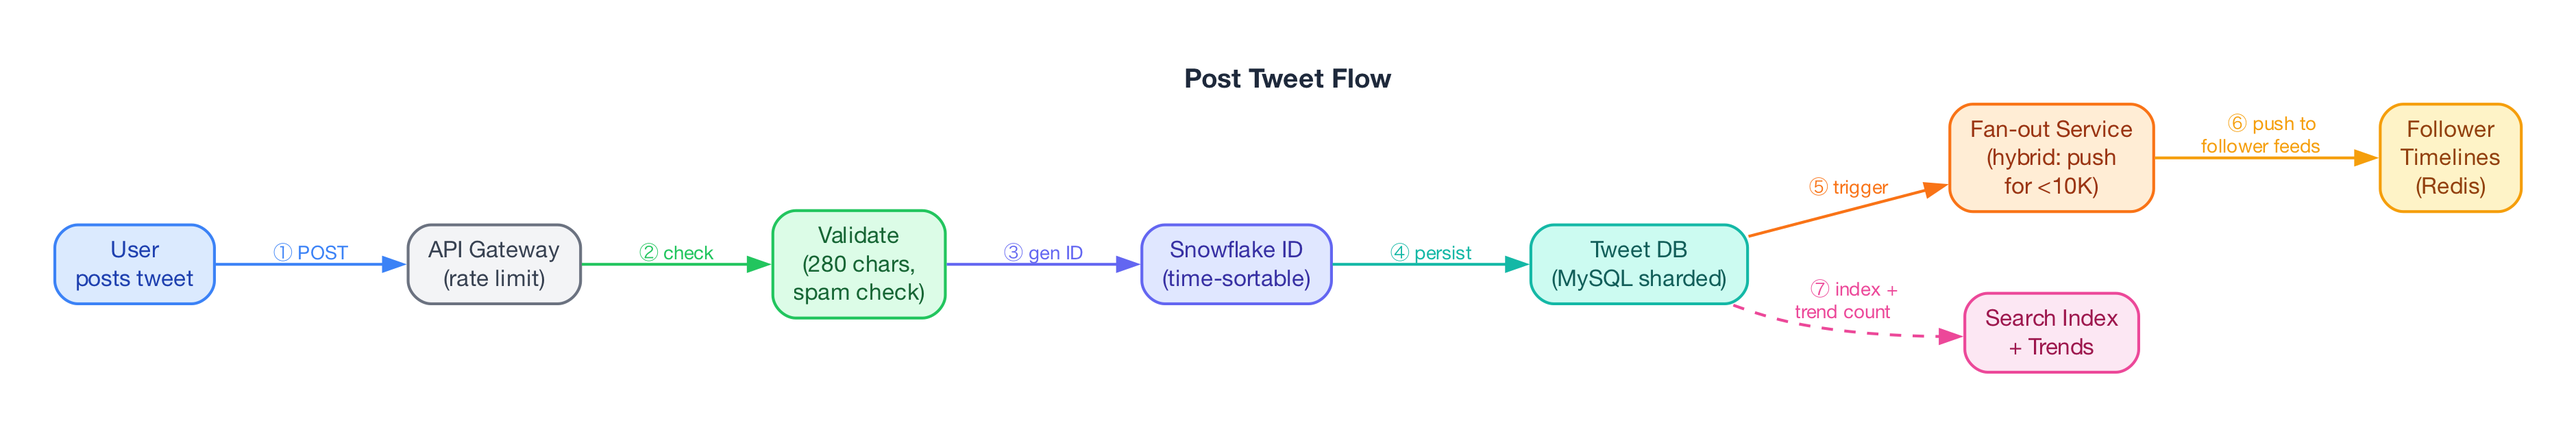
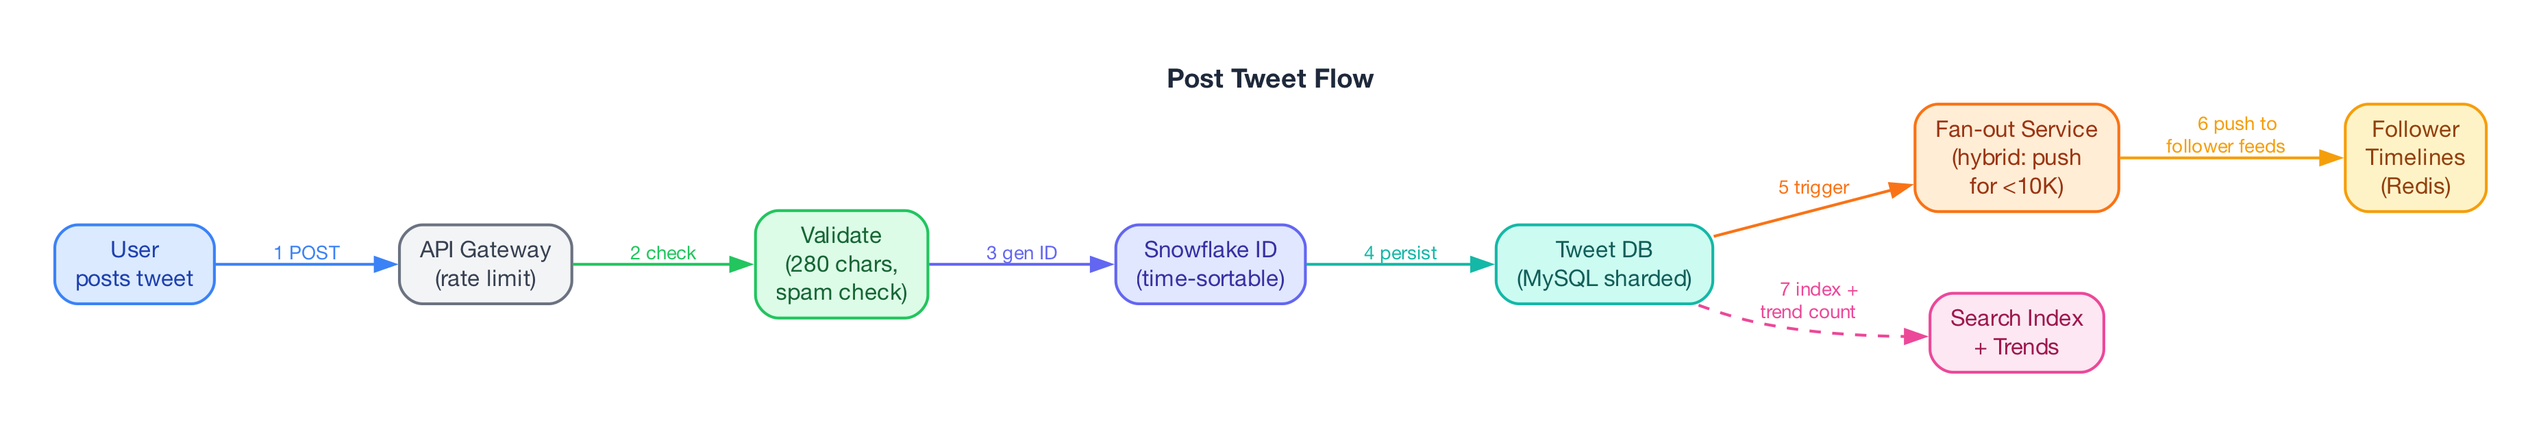
Add flow diagrams for Tinder/Twitter/Instagram + fix layout issues
Diagrams:
- Tinder: Swipe & Match Detection Flow + Recommendation Pipeline
- Twitter: Post Tweet Flow + Read Timeline Flow (regenerated)
- Instagram: Create Post Flow + Load Feed Flow

Layout fixes:
- Comparison tables: full width when only 1 table (was wasting half)
- Visual cards: adapt grid cols to item count (1/2/3)
- Layered Design: moved immediately after Architecture Diagram
  (was buried after Deep Dives — user requested this ordering)

diff --git a/apps/frontend/src/components/capra/docs/TopicDetail.jsx b/apps/frontend/src/components/capra/docs/TopicDetail.jsx
@@ -2062,6 +2062,70 @@ export default function TopicDetail({
                 </div>
               )}
 
+              {/* 5b. Architecture Layers + Layered Design — immediately after architecture diagram */}
+              {topicDetails.architectureLayers && (
+                <div id="arch-layers" className="rounded-lg overflow-hidden scroll-mt-24 border border-[var(--border)] bg-white">
+                  <div className="px-3 py-2 border-b border-[var(--accent)] flex items-center gap-2 bg-[var(--accent)]">
+                    <Icon name="layers" size={16} className="text-white" />
+                    <h3 className="text-[15px] font-bold text-white landing-display">Architecture Layers</h3>
+                  </div>
+                  <div className="p-3 space-y-1.5">
+                    {topicDetails.architectureLayers.map((layer, i) => (
+                      <div key={i} className="flex items-start gap-3 p-2.5 rounded-lg border border-[var(--border)]">
+                        <span className="w-6 h-6 rounded-md bg-[rgba(45,140,255,0.08)] text-[var(--accent)] flex items-center justify-center text-xs font-bold flex-shrink-0">{i + 1}</span>
+                        <div>
+                          <span className="text-sm font-bold text-[var(--text-primary)] landing-display">{layer.name}</span>
+                          <div className="text-[var(--text-secondary)] text-xs landing-body leading-relaxed mt-0.5">
+                            <FormattedContent content={layer.description} color="blue" />
+                          </div>
+                        </div>
+                      </div>
+                    ))}
+                  </div>
+                </div>
+              )}
+
+              {topicDetails.layeredDesign && (
+                <div className="rounded-2xl overflow-hidden bg-white border border-[var(--border)]">
+                  <div className="px-4 py-2 border-b border-[var(--accent)] flex items-center gap-2 bg-[var(--accent)]">
+                    <Icon name="layers" size={14} className="text-white" />
+                    <h3 className="text-[15px] font-bold text-white landing-display">Layered Design</h3>
+                    <span className="ml-auto text-[10px] font-semibold px-2 py-0.5 rounded-full bg-white/20 text-white landing-mono">{topicDetails.layeredDesign.length} layers</span>
+                  </div>
+                  <div className="p-2.5 space-y-0">
+                    {topicDetails.layeredDesign.map((layer, i) => {
+                      const LAYER_COLORS = ['#10b981', '#3b82f6', '#60A5FA', '#f59e0b', '#ef4444', '#06b6d4', '#ec4899', '#2D8CFF'];
+                      const lc = LAYER_COLORS[i % LAYER_COLORS.length];
+                      return (
+                        <div key={i} className="relative">
+                          {i > 0 && (
+                            <div className="flex justify-center -my-1 z-10 relative">
+                              <svg width="16" height="10" viewBox="0 0 16 10" fill="none"><path d="M8 0v10M4 6l4 4 4-4" stroke="#d1d5db" strokeWidth="1.5" strokeLinecap="round" strokeLinejoin="round" /></svg>
+                            </div>
+                          )}
+                          <div className="rounded-xl border border-[var(--border)] bg-white transition-all overflow-hidden">
+                            <div className="px-4 py-3">
+                              <div className="flex items-center gap-2.5 mb-1.5">
+                                <span className="w-7 h-7 rounded-lg flex items-center justify-center flex-shrink-0 text-white text-xs font-bold" style={{ background: lc }}>L{i + 1}</span>
+                                <h4 className="text-[var(--text-primary)] font-semibold text-sm landing-display">{layer.name}</h4>
+                              </div>
+                              <p className="text-[var(--text-secondary)] text-xs leading-relaxed ml-9 landing-body">{layer.purpose}</p>
+                              {layer.components && (
+                                <div className="ml-9 mt-2 flex flex-wrap gap-1.5">
+                                  {layer.components.map((comp, j) => (
+                                    <span key={j} className="text-[11px] font-medium px-2 py-0.5 rounded-md landing-mono" style={{ background: `${lc}12`, color: lc, border: `1px solid ${lc}30` }}>{comp}</span>
+                                  ))}
+                                </div>
+                              )}
+                            </div>
+                          </div>
+                        </div>
+                      );
+                    })}
+                  </div>
+                </div>
+              )}
+
               {/* 6. System Flows + Flowcharts — show right after architecture */}
               {(topicDetails.createFlow || topicDetails.redirectFlow) && (
                 <div id="flows" className="space-y-3 scroll-mt-24">
@@ -2266,73 +2330,9 @@ export default function TopicDetail({
                 </div>
               ) : null}
 
-              {/* Architecture Layers + Layered Design — after deep dives */}
-              {topicDetails.architectureLayers && (
-                <div id="arch-layers" className="rounded-lg overflow-hidden scroll-mt-24 border border-[var(--border)] bg-white">
-                  <div className="px-3 py-2 border-b border-[var(--accent)] flex items-center gap-2 bg-[var(--accent)]">
-                    <Icon name="layers" size={16} className="text-white" />
-                    <h3 className="text-[15px] font-bold text-white landing-display">Architecture Layers</h3>
-                  </div>
-                  <div className="p-3 space-y-1.5">
-                    {topicDetails.architectureLayers.map((layer, i) => (
-                      <div key={i} className="flex items-start gap-3 p-2.5 rounded-lg border border-[var(--border)]">
-                        <span className="w-6 h-6 rounded-md bg-[rgba(45,140,255,0.08)] text-[var(--accent)] flex items-center justify-center text-xs font-bold flex-shrink-0">{i + 1}</span>
-                        <div>
-                          <span className="text-sm font-bold text-[var(--text-primary)] landing-display">{layer.name}</span>
-                          <div className="text-[var(--text-secondary)] text-xs landing-body leading-relaxed mt-0.5">
-                            <FormattedContent content={layer.description} color="blue" />
-                          </div>
-                        </div>
-                      </div>
-                    ))}
-                  </div>
-                </div>
-              )}
-
-              {topicDetails.layeredDesign && (
-                <div className="rounded-2xl overflow-hidden bg-white border border-[var(--border)]">
-                  <div className="px-4 py-2 border-b border-[var(--accent)] flex items-center gap-2 bg-[var(--accent)]">
-                    <Icon name="layers" size={14} className="text-white" />
-                    <h3 className="text-[15px] font-bold text-white landing-display">Layered Design</h3>
-                    <span className="ml-auto text-[10px] font-semibold px-2 py-0.5 rounded-full bg-white/20 text-white landing-mono">{topicDetails.layeredDesign.length} layers</span>
-                  </div>
-                  <div className="p-2.5 space-y-0">
-                    {topicDetails.layeredDesign.map((layer, i) => {
-                      const LAYER_COLORS = ['#10b981', '#3b82f6', '#60A5FA', '#f59e0b', '#ef4444', '#06b6d4', '#ec4899', '#2D8CFF'];
-                      const lc = LAYER_COLORS[i % LAYER_COLORS.length];
-                      return (
-                        <div key={i} className="relative">
-                          {i > 0 && (
-                            <div className="flex justify-center -my-1 z-10 relative">
-                              <svg width="16" height="10" viewBox="0 0 16 10" fill="none"><path d="M8 0v10M4 6l4 4 4-4" stroke="#d1d5db" strokeWidth="1.5" strokeLinecap="round" strokeLinejoin="round" /></svg>
-                            </div>
-                          )}
-                          <div className="rounded-xl border border-[var(--border)] bg-white transition-all overflow-hidden">
-                            <div className="px-4 py-3">
-                              <div className="flex items-center gap-2.5 mb-1.5">
-                                <span className="w-7 h-7 rounded-lg flex items-center justify-center flex-shrink-0 text-white text-xs font-bold" style={{ background: lc }}>L{i + 1}</span>
-                                <h4 className="text-[var(--text-primary)] font-semibold text-sm landing-display">{layer.name}</h4>
-                              </div>
-                              <p className="text-[var(--text-secondary)] text-xs leading-relaxed ml-9 landing-body">{layer.purpose}</p>
-                              {layer.components && (
-                                <div className="ml-9 mt-2 flex flex-wrap gap-1.5">
-                                  {layer.components.map((comp, j) => (
-                                    <span key={j} className="text-[11px] font-medium px-2 py-0.5 rounded-md landing-mono" style={{ background: `${lc}12`, color: lc, border: `1px solid ${lc}30` }}>{comp}</span>
-                                  ))}
-                                </div>
-                              )}
-                            </div>
-                          </div>
-                        </div>
-                      );
-                    })}
-                  </div>
-                </div>
-              )}
-
               {/* 11. Visual Assets — comparisons, cheat sheets, charts, evolution */}
               {topicDetails.comparisonTables && topicDetails.comparisonTables.length > 0 && (
-                <div className="grid grid-cols-1 lg:grid-cols-2 gap-2">
+                <div className={`grid grid-cols-1 gap-2 ${topicDetails.comparisonTables.length >= 2 ? 'lg:grid-cols-2' : ''}`}>
                   {topicDetails.comparisonTables.map((comp) => (
                     <ComparisonCard key={comp.id} comparison={comp} />
                   ))}
@@ -2340,7 +2340,7 @@ export default function TopicDetail({
               )}
 
               {topicDetails.visualCards && topicDetails.visualCards.length > 0 && (
-                <div className="grid grid-cols-1 lg:grid-cols-3 gap-2">
+                <div className={`grid grid-cols-1 gap-2 ${topicDetails.visualCards.length >= 3 ? 'lg:grid-cols-3' : topicDetails.visualCards.length === 2 ? 'lg:grid-cols-2' : ''}`}>
                   {topicDetails.visualCards.map((card) => (
                     <CheatSheetCard key={card.id} card={card} />
                   ))}

diff --git a/apps/frontend/src/data/capra/topics/systemDesignProblems.js b/apps/frontend/src/data/capra/topics/systemDesignProblems.js
@@ -15401,6 +15401,35 @@ The first 24 hours of swipe data from other users seeing the new profile provide
         ]
       },
 
+      createFlow: {
+        title: 'Swipe & Match Detection Flow',
+        diagramSrc: '/diagrams/tinder/flow-swipe-match.png',
+        steps: [
+          { step: 1, label: 'User Swipes Right', detail: 'User swipes right (LIKE) on a profile card in the app' },
+          { step: 2, label: 'API Gateway', detail: 'Rate limiting (prevent bot swiping), authenticate user, forward to swipe service' },
+          { step: 3, label: 'Record Swipe', detail: 'Swipe service records the like: SADD user:{swiperId}:likes {targetId} in Redis' },
+          { step: 4, label: 'Check Reciprocal', detail: 'SISMEMBER user:{targetId}:likes {swiperId} — O(1) check if target already liked us' },
+          { step: 5, label: 'Match Created', detail: 'If mutual like found: create match record in database, open chat channel' },
+          { step: 6, label: 'Push Notifications', detail: 'Send push notification to both users: "It\'s a Match!" with profile photos' },
+          { step: 7, label: 'Async Persistence', detail: 'Swipe event published to Kafka for durable persistence to Cassandra swipe log' },
+          { step: 8, label: 'Update Recs', detail: 'Remove matched user from both recommendation stacks to prevent re-showing' },
+        ]
+      },
+
+      redirectFlow: {
+        title: 'Recommendation Pipeline',
+        diagramSrc: '/diagrams/tinder/flow-recommendation.png',
+        steps: [
+          { step: 1, label: 'Batch Trigger', detail: 'Runs every 4 hours per user, or immediately when recommendation stack is depleted' },
+          { step: 2, label: 'S2 Geo Query', detail: 'Query users in the same S2 cell region (level 12 = ~3.3km cells) for the user\'s location' },
+          { step: 3, label: 'Preference Filter', detail: 'Filter ~10K candidates by mutual preferences: age range overlap, gender, interested_in, max distance' },
+          { step: 4, label: 'Bloom Filter Dedup', detail: 'Check each candidate against user\'s Bloom filter to exclude already-swiped profiles (O(k) per check)' },
+          { step: 5, label: 'ML Ranking', detail: 'Score remaining ~2K candidates using ELO similarity, distance decay, activity recency, profile completeness' },
+          { step: 6, label: 'Diversity Rules', detail: 'Apply diversity constraints: mix attractiveness tiers (70% similar, 30% exploratory), vary profile types' },
+          { step: 7, label: 'Cache Top 100', detail: 'Store ranked recommendation stack in Redis sorted set per user. Serve via GET /recommendations in <100ms' },
+        ]
+      },
+
       swipeFlow: {
         title: 'Swipe Flow',
         steps: [

diff --git a/apps/frontend/scripts/gen-major-flow-diagrams.py b/apps/frontend/scripts/gen-major-flow-diagrams.py
@@ -1,0 +1,166 @@
+#!/usr/bin/env python3
+"""Generate createFlow/redirectFlow diagrams for Tinder, Twitter, Instagram."""
+import graphviz, os
+
+BASE = os.path.join(os.path.dirname(__file__), '..', 'public', 'diagrams')
+
+NODE = dict(shape='box', style='filled,rounded', fontname='Helvetica Neue', fontsize='12', penwidth='1.5', height='0.45', margin='0.15,0.08')
+EDGE = dict(fontname='Helvetica Neue', fontsize='10', penwidth='1.5')
+C = {
+    'blue': ('#dbeafe','#3b82f6','#1e40af'), 'green': ('#dcfce7','#22c55e','#166534'),
+    'yellow': ('#fef3c7','#f59e0b','#92400e'), 'purple': ('#e0e7ff','#6366f1','#3730a3'),
+    'pink': ('#fce7f3','#ec4899','#9d174d'), 'orange': ('#ffedd5','#f97316','#9a3412'),
+    'teal': ('#ccfbf1','#14b8a6','#115e59'), 'gray': ('#f3f4f6','#6b7280','#374151'),
+    'red': ('#fee2e2','#ef4444','#991b1b'), 'cyan': ('#cffafe','#06b6d4','#155e75'),
+}
+def n(g, nm, label, c): g.node(nm, label, fillcolor=C[c][0], color=C[c][1], fontcolor=C[c][2], **NODE)
+def e(g, a, b, label='', color='#475569', style='solid'): g.edge(a, b, label=f'  {label}  ' if label else '', color=color, fontcolor=color, style=style, **EDGE)
+def mk(out, name, title, **kw):
+    os.makedirs(out, exist_ok=True)
+    g = graphviz.Digraph(format='png')
+    g.attr(bgcolor='#ffffff', dpi='200', pad='0.4', nodesep='0.6', ranksep='0.7', splines='spline',
+           label=f'  {title}  ', labelloc='t', fontsize='14', fontname='Helvetica Neue Bold', fontcolor='#1e293b', **kw)
+    return g, os.path.join(out, name)
+
+# ═══════════════════════════════════════════
+# TINDER
+# ═══════════════════════════════════════════
+def tinder_swipe():
+    OUT = os.path.join(BASE, 'tinder')
+    g, path = mk(OUT, 'flow-swipe-match', 'Swipe & Match Detection Flow', rankdir='LR')
+    n(g, 'user', 'User\nSwipes Right', 'pink')
+    n(g, 'api', 'API Gateway\n(rate limit)', 'gray')
+    n(g, 'swipe', 'Swipe Service\n(record action)', 'blue')
+    n(g, 'redis', 'Redis\n(check reciprocal\nSISMEMBER)', 'red')
+    n(g, 'match', 'Match Service\n(create match\nrecord)', 'green')
+    n(g, 'notify', 'Push\nNotification\n(both users)', 'orange')
+    n(g, 'kafka', 'Kafka\n(async persist\nto Cassandra)', 'purple')
+    n(g, 'recs', 'Rec Engine\n(remove from\nstacks)', 'teal')
+    e(g, 'user', 'api', '1 POST /swipe', '#ec4899')
+    e(g, 'api', 'swipe', '2 validate', '#6b7280')
+    e(g, 'swipe', 'redis', '3 SADD +\nSISMEMBER', '#ef4444')
+    e(g, 'redis', 'match', '4 mutual!\ncreate match', '#22c55e')
+    e(g, 'match', 'notify', '5 push to\nboth users', '#f97316')
+    e(g, 'swipe', 'kafka', '6 persist\nswipe log', '#6366f1', 'dashed')
+    e(g, 'match', 'recs', '7 remove\nfrom stacks', '#14b8a6', 'dashed')
+    g.render(path, cleanup=True)
+    print(f'  OK {path}.png')
+
+def tinder_recs():
+    OUT = os.path.join(BASE, 'tinder')
+    g, path = mk(OUT, 'flow-recommendation', 'Recommendation Pipeline', rankdir='LR')
+    n(g, 'trigger', 'Batch Trigger\n(every 4 hours\nor stack empty)', 'gray')
+    n(g, 's2', 'S2 Geo Index\n(find nearby\nusers in cells)', 'blue')
+    n(g, 'filter', 'Preference\nFilter\n(age, gender,\ndistance)', 'teal')
+    n(g, 'dedup', 'Bloom Filter\n(exclude\nalready swiped)', 'purple')
+    n(g, 'rank', 'ML Ranker\n(ELO score,\ndistance, activity)', 'orange')
+    n(g, 'diverse', 'Diversity\nRules\n(mix tiers,\ntypes)', 'yellow')
+    n(g, 'cache', 'Redis Cache\n(store top 100\nper user)', 'red')
+    n(g, 'serve', 'Serve to App\n(pre-load\nphotos)', 'green')
+    e(g, 'trigger', 's2', '1 query\nregion', '#3b82f6')
+    e(g, 's2', 'filter', '2 ~10K\ncandidates', '#14b8a6')
+    e(g, 'filter', 'dedup', '3 remove\nseen', '#6366f1')
+    e(g, 'dedup', 'rank', '4 score\n~2K profiles', '#f97316')
+    e(g, 'rank', 'diverse', '5 apply\nrules', '#f59e0b')
+    e(g, 'diverse', 'cache', '6 cache\ntop 100', '#ef4444')
+    e(g, 'cache', 'serve', '7 GET /recs\n<100ms', '#22c55e')
+    g.render(path, cleanup=True)
+    print(f'  OK {path}.png')
+
+# ═══════════════════════════════════════════
+# TWITTER
+# ═══════════════════════════════════════════
+def twitter_post():
+    OUT = os.path.join(BASE, 'twitter')
+    os.makedirs(OUT, exist_ok=True)
+    g, path = mk(OUT, 'flow-create-tweet', 'Post Tweet Flow', rankdir='LR')
+    n(g, 'user', 'User\nposts tweet', 'blue')
+    n(g, 'api', 'API Gateway\n(rate limit)', 'gray')
+    n(g, 'validate', 'Validate\n(280 chars,\nspam check)', 'green')
+    n(g, 'snowflake', 'Snowflake ID\n(time-sortable)', 'purple')
+    n(g, 'db', 'Tweet DB\n(MySQL sharded)', 'teal')
+    n(g, 'fanout', 'Fan-out Service\n(hybrid: push\nfor <10K)', 'orange')
+    n(g, 'timeline', 'Follower\nTimelines\n(Redis)', 'yellow')
+    n(g, 'index', 'Search Index\n+ Trends', 'pink')
+    e(g, 'user', 'api', '1 POST', '#3b82f6')
+    e(g, 'api', 'validate', '2 check', '#22c55e')
+    e(g, 'validate', 'snowflake', '3 gen ID', '#6366f1')
+    e(g, 'snowflake', 'db', '4 persist', '#14b8a6')
+    e(g, 'db', 'fanout', '5 trigger', '#f97316')
+    e(g, 'fanout', 'timeline', '6 push to\nfollower feeds', '#f59e0b')
+    e(g, 'db', 'index', '7 index +\ntrend count', '#ec4899', 'dashed')
+    g.render(path, cleanup=True)
+    print(f'  OK {path}.png')
+
+def twitter_read():
+    OUT = os.path.join(BASE, 'twitter')
+    g, path = mk(OUT, 'flow-read-timeline', 'Read Timeline Flow', rankdir='LR')
+    n(g, 'user', 'User opens\nHome Feed', 'blue')
+    n(g, 'api', 'Timeline\nService', 'gray')
+    n(g, 'redis', 'Redis\n(pre-built\ntimeline)', 'red')
+    n(g, 'merge', 'Merge\nService\n(add celebs\non-the-fly)', 'purple')
+    n(g, 'rank', 'ML Ranker\n(relevance,\nrecency)', 'orange')
+    n(g, 'hydrate', 'Hydration\nService\n(user profiles,\nmedia URLs)', 'teal')
+    n(g, 'render', 'Return\nRanked Feed', 'green')
+    e(g, 'user', 'api', '1 GET /home', '#3b82f6')
+    e(g, 'api', 'redis', '2 fetch\npre-built', '#ef4444')
+    e(g, 'redis', 'merge', '3 add celeb\ntweets (pull)', '#6366f1')
+    e(g, 'merge', 'rank', '4 rank by\nrelevance', '#f97316')
+    e(g, 'rank', 'hydrate', '5 fetch\nprofiles +\nmedia', '#14b8a6')
+    e(g, 'hydrate', 'render', '6 return\nranked feed', '#22c55e')
+    g.render(path, cleanup=True)
+    print(f'  OK {path}.png')
+
+# ═══════════════════════════════════════════
+# INSTAGRAM
+# ═══════════════════════════════════════════
+def instagram_post():
+    OUT = os.path.join(BASE, 'instagram')
+    os.makedirs(OUT, exist_ok=True)
+    g, path = mk(OUT, 'flow-create-post', 'Create Post Flow', rankdir='LR')
+    n(g, 'user', 'User uploads\nphoto/reel', 'pink')
+    n(g, 'api', 'API Gateway', 'gray')
+    n(g, 'upload', 'Media Service\n(S3 upload,\ngenerate sizes)', 'blue')
+    n(g, 'nsfw', 'ML Filter\n(NSFW check,\ncopyright)', 'red')
+    n(g, 'db', 'Post DB\n(Cassandra)', 'purple')
+    n(g, 'fanout', 'Fan-out\nService\n(push to\nfollower feeds)', 'orange')
+    n(g, 'cdn', 'CDN\n(CloudFront\nedge cache)', 'teal')
+    n(g, 'notify', 'Notifications\n(followers,\nmentions)', 'yellow')
+    e(g, 'user', 'api', '1 upload', '#ec4899')
+    e(g, 'api', 'upload', '2 process\nmedia', '#3b82f6')
+    e(g, 'upload', 'nsfw', '3 ML check', '#ef4444')
+    e(g, 'nsfw', 'db', '4 persist\npost', '#6366f1')
+    e(g, 'upload', 'cdn', '5 cache on\nedge', '#14b8a6')
+    e(g, 'db', 'fanout', '6 fan-out\nto feeds', '#f97316')
+    e(g, 'fanout', 'notify', '7 push\nnotifications', '#f59e0b', 'dashed')
+    g.render(path, cleanup=True)
+    print(f'  OK {path}.png')
+
+def instagram_feed():
+    OUT = os.path.join(BASE, 'instagram')
+    g, path = mk(OUT, 'flow-load-feed', 'Load Feed Flow', rankdir='LR')
+    n(g, 'user', 'User opens\nInstagram', 'pink')
+    n(g, 'feed', 'Feed Service\n(aggregation)', 'blue')
+    n(g, 'cache', 'Feed Cache\n(Redis\npre-built)', 'red')
+    n(g, 'rank', 'ML Ranker\n(interest,\nrecency,\nrelationship)', 'orange')
+    n(g, 'hydrate', 'Hydration\n(profiles,\nmedia URLs,\nlikes count)', 'teal')
+    n(g, 'ads', 'Ad Server\n(insert\nsponsored)', 'yellow')
+    n(g, 'render', 'Return\nRanked Feed\n+ Stories', 'green')
+    e(g, 'user', 'feed', '1 GET /feed', '#ec4899')
+    e(g, 'feed', 'cache', '2 fetch\npre-built', '#ef4444')
+    e(g, 'cache', 'rank', '3 ML rank\n~500 posts', '#f97316')
+    e(g, 'rank', 'hydrate', '4 enrich\nmetadata', '#14b8a6')
+    e(g, 'hydrate', 'ads', '5 insert\nads', '#f59e0b')
+    e(g, 'ads', 'render', '6 return\nfeed', '#22c55e')
+    g.render(path, cleanup=True)
+    print(f'  OK {path}.png')
+
+if __name__ == '__main__':
+    print('Generating flow diagrams...')
+    tinder_swipe()
+    tinder_recs()
+    twitter_post()
+    twitter_read()
+    instagram_post()
+    instagram_feed()
+    print('Done! 6 diagrams generated.')
